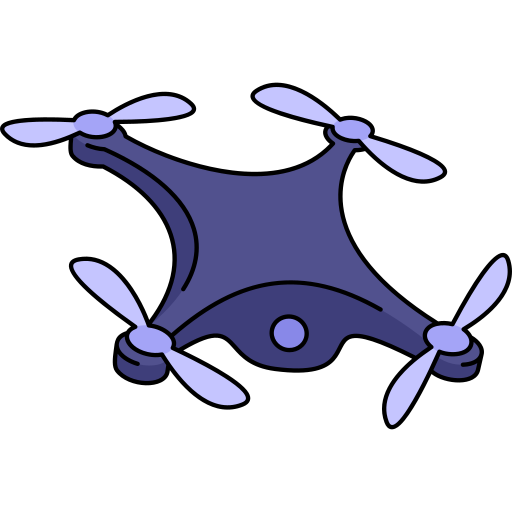
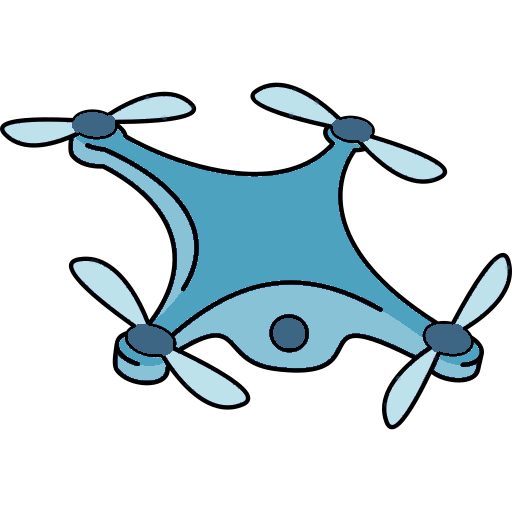
V2

Changed region(s): [[0.0, 0.1562, 1.0, 0.8438]]

diff --git a/visualizer.py b/visualizer.py
@@ -37,6 +37,7 @@ class Window(arcade.Window):
         self.restart = False
         self.turn = self.turns[self.counter]
         self.camera = arcade.Camera2D()
+        self.gui_camera = arcade.Camera2D()
         self.camera.zoom = 0.3
 
         self.labels:list[arcade.Text] = []
@@ -114,13 +115,11 @@ class Window(arcade.Window):
             for drone in self.graph.drones:
                 drone.x = self.graph.start_hub.x
                 drone.y = self.graph.start_hub.y
-            self.restart = False
 
 
     def on_draw(self):
         self.clear()
         self.camera.use()
-        arcade.Text(f"Turns: {self.counter}/{len(self.turns)}", 0, 1900, COLOR['black'], 160, bold=True).draw()
 
         for conn in self.graph.connections:
             arcade.draw_line(conn.from_zone.x*300, conn.from_zone.y*600, conn.to_zone.x*300, conn.to_zone.y*600, COLOR['black'], 6)
@@ -131,11 +130,25 @@ class Window(arcade.Window):
 
         for label in self.labels:
             label.draw()
-        
+
         for drone in self.graph.drones:
             arcade.draw_sprite(arcade.Sprite('drone.png', 0.6, drone.x*300, drone.y*600))
-            arcade.Text(str(drone.id), drone.x*300, drone.y*600, COLOR['black'], anchor_x= "center", anchor_y="center", font_size=26, bold=True).draw()
+            arcade.Text(str(drone.id), drone.x*300, drone.y*600, (0x3d, 0x66, 0x85), anchor_x= "center", anchor_y="center", font_size=26, bold=True).draw()
 
+        self.gui_camera.use()
+
+        arcade.Text(f"Turns: {self.counter}/{len(self.turns)}", 20, self.height - 20, (0x3d, 0x66, 0x85), 29, anchor_y="top", bold=True).draw()
+
+        if self.play:
+            arcade.draw_sprite(arcade.Sprite('space.png', 0.27, 90, 60))
+        else:
+            arcade.draw_sprite(arcade.Sprite('space.png', 0.3, 90, 60))
+        
+        if self.restart:
+            arcade.draw_sprite(arcade.Sprite('tab.png', 0.2, 260, 60))
+            self.restart = False
+        else:
+            arcade.draw_sprite(arcade.Sprite('tab.png', 0.23, 260, 60))
 
     def on_mouse_scroll(self, x: float, y: float, scroll_x: float, scroll_y: float):
         if scroll_y > 0:
@@ -156,7 +169,7 @@ class Window(arcade.Window):
                 self.play = False
             else:
                 self.play = True
-        elif key == arcade.key.BACKSPACE:
+        elif key == arcade.key.TAB:
             self.restart = True
 
 class Visualizer:
